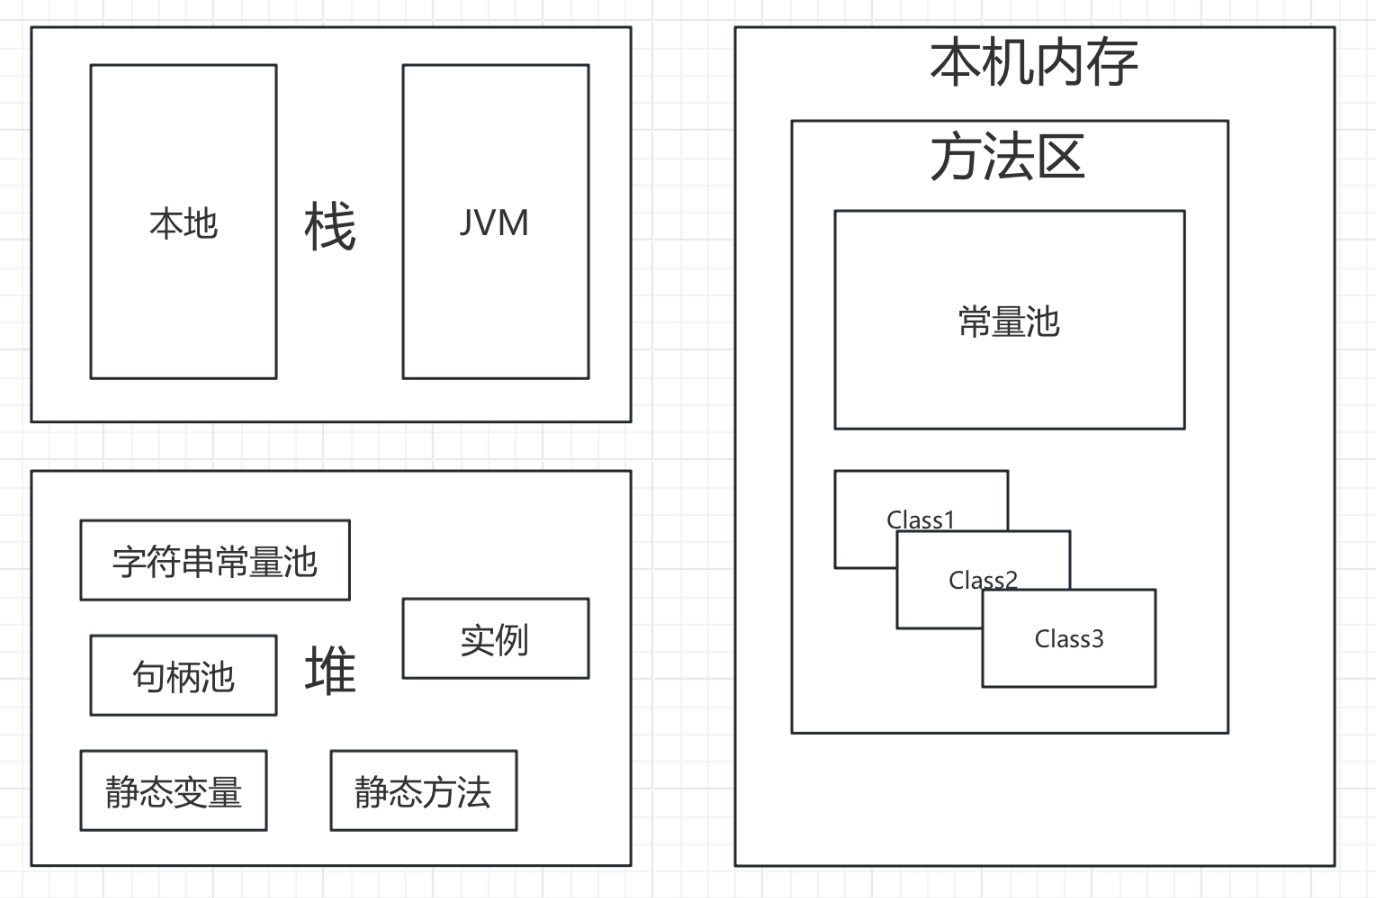
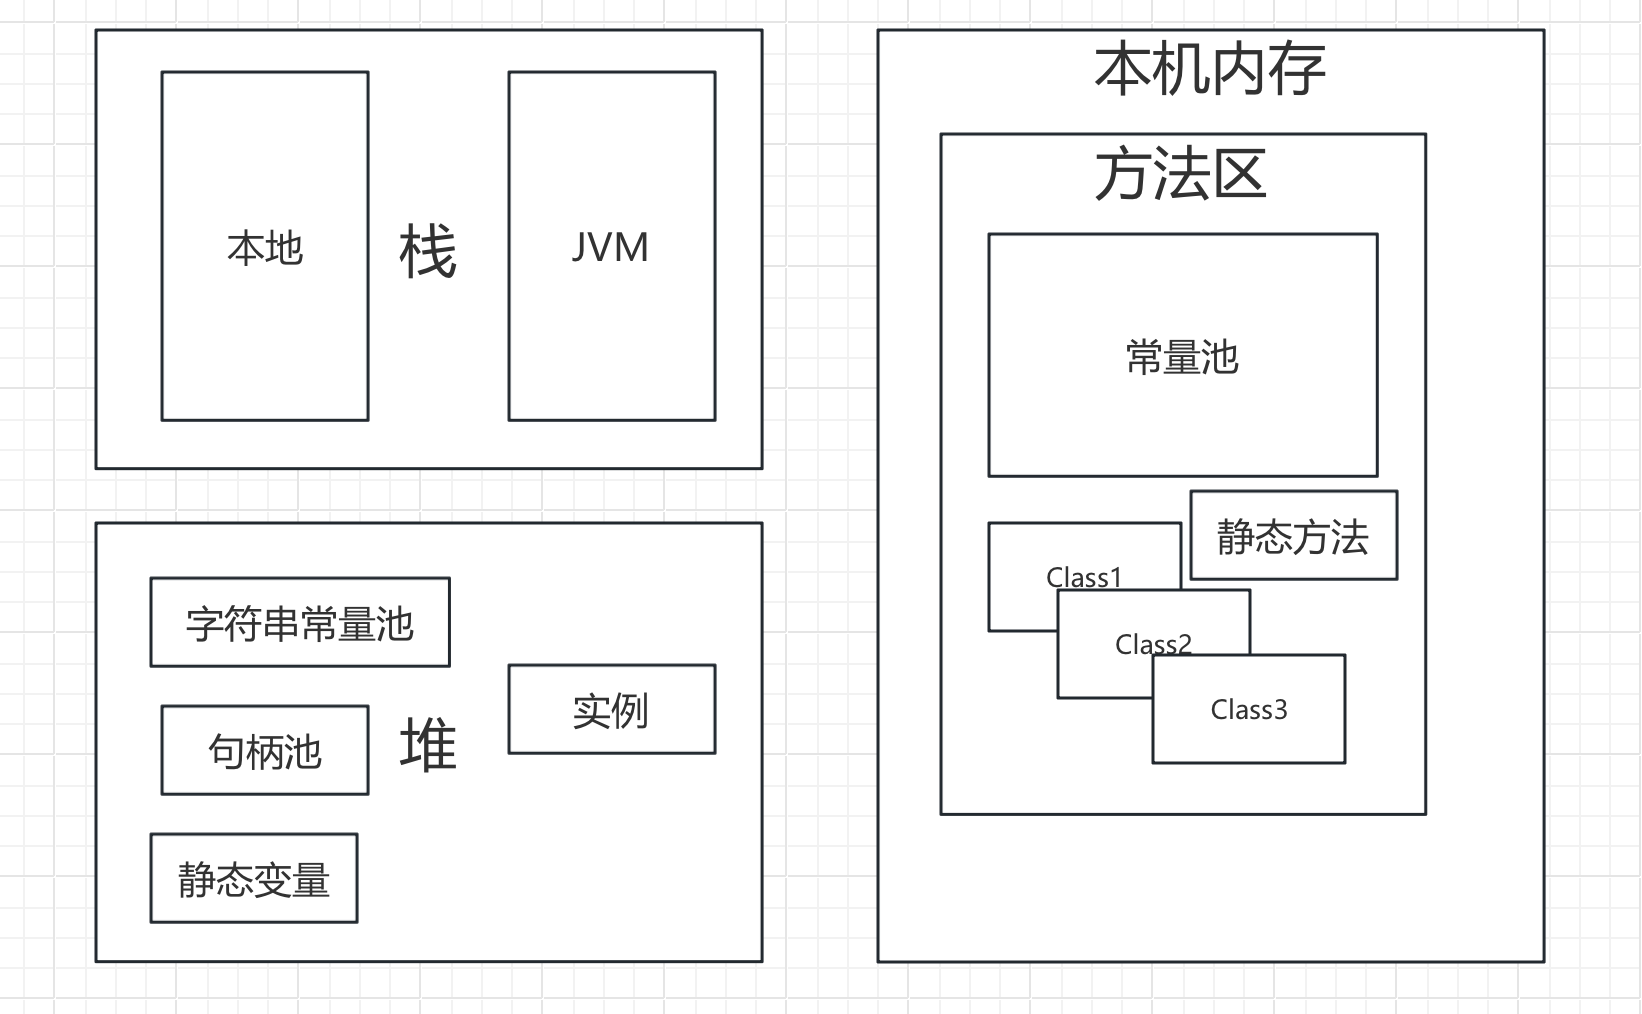
1

diff --git a/_posts/2024-10-03-记录Fuzzing时使用的工具.md b/_posts/2024-10-03-记录Fuzzing时使用的工具.md
@@ -1,0 +1,156 @@
+---
+layout: mypost
+title: "记录Fuzzing时使用的工具"
+categories: [web安全]
+---
+
+> 广义上的 Fuzzing 并不是漏洞挖掘中的专属内容，而是 DevSecOps 和 Continous Integration 质量保证中必不可少的一环，甚至可以延伸到完备图灵自动机的美妙梦想。在起初，人们通常以 monkey testing 来指代最原始的 fuzz，就像著名的无限猴子定理一样：让一只猴子在打字机上随机地按键，当按键时间达到无穷时，几乎必然能够打出任何给定的文字。 ---摘自 Flanker
+
+安全中很多地方都用到了这项技术，Web、Pwn、AI 等等很多领域，很多安全研究员都通过此技术拿到过不少的 CVE。这里记录一下最基础的 Web 领域，说白了就是批量发数据包，观测响应的状态的一个流程，所以要完美实现这个流程只需要考虑两点：
+
+1. 高质量的字典
+
+2. 工具的速度和稳定性
+
+工具推荐两个，一个是 ffuf - Fuzz Faster U Fool，另一个是 Burp 的插件 Turbo Intruder。字典一定要分类，把类别整理出来，那么每一类肯定就是高质量的字典，比如有 Sql、Xss、Spring、Shiro、绕 403 等等这样类别。
+
+## ffuf - Fuzz Faster U Fool
+
+ffuf 有很多优点，基于 Go 语言开发，速度极快，并且跨平台，支持颜色区分等等。最重要的是它可操作性比较强，功能可以涵盖目录扫描、DNS 扫描、Payload 测试等等，我们只需要改变 FUZZ 参数的位置+高质量的字典即可。所以用好这一款工具就可以代替比如像 Dirsearch、御剑这种功能比较单一的工具。下面先去写基础使用介绍，然后再写工具在不同场景中的具体应用。
+
+### Input Options
+
+输入选项，顾名思义就是要把 Dicts 的每一项加入到 Payload 中进行测试，有下面几种方式：
+
+1.单一 Word Fuzz，也是最简单的 Fuzz
+
+```
+./ffuf -u http://testphp.vulnweb.comFUZZ -w ../../字典/fuzzDicts/directoryDicts/top7000.txt
+```
+
+![](image.png)
+
+2.多 Word Fuzz，不止在一个位置上 Fuzz，灵活应用这个功能会有意想不到的效果
+
+```
+./ffuf -u http://testphp.vulnweb.comFUZZ1\?FUZZ2 -w ../../字典/fuzzDicts/apiDict/api.txt:FUZZ1 -w ../../字典/fuzzDicts/paramDict/dir.txt:FUZZ2
+```
+
+3.加 Cookie 扫描，手动去获取登录后网站的 Cookie 字段，然后使用`-b`参数添加字段即可
+
+```
+./ffuf -u http://testphp.vulnweb.comFUZZ -w ../../字典/fuzzDicts/directoryDicts/top7000.txt -b "Cookie=xxx"
+```
+
+4.递归扫描，这个扫描的时候字典新版本可以`/`开头，不会扫描失效（可能有的旧版本这里会报错），扫描的时候加这个参数-->`-recursion`
+
+```
+./ffuf -u http://testphp.vulnweb.comFUZZ -w ../../字典/fuzzDicts/directoryDicts/top7000.txt -recursion
+```
+
+效果就是如果扫描到目录返回是 200，那么就会把目前字典再加载到该目录下重新再次发包，可以看到下面的`Job [3/4]`
+
+![alt text](image-1.png)
+
+5.POST 扫描，这里只推荐用数据包去扫描，将数据包内容通过 Burp 等工具拦截，再想去 Fuzz 的地方添加好标志位，然后使用如下语句开始进行 Fuzz
+
+![alt text](<截屏2024-10-12 22.17.58.png>)
+
+```
+ffuf -request request.txt -request-proto http -mode clusterbomb -w ../../字典/fuzzDicts/directoryDicts/top7000.txt -recursion
+```
+
+分析一下其中的参数:
+
+`-mode` 爆破模块，目前有 clusterbomb、 pitchfork 两个模式具体，类似 burpsuite 的爆破模块
+
+- 在 clusterbomb 模式下，用户名单词列表中的每个单词都将与密码单词列表中的每个单词组合使用。就像如果列表 1 中有 4 个单词而列表 2 中有 5 个单词，那么总共会有 20 个请求。（集束炸弹模式）
+- 在 pitchfork 模式下，用户名列表中第一个单词将与密码列表中第一个单词一起使用，同样，用户名列表中第二个单词将与密码列表中第二个单词一起使用。如果两个列表中的单词数量不同，那么一旦单词数量较少的列表耗尽就会停止。
+
+`-request` 用于指定与原始 HTTP 请求文件
+
+`-request-proto` 与原始请求一起使用的协议（默认值：https）
+
+6.静默扫描&指定后缀扫描，这两个都没什么就一笔带过了，静默扫描就是不会显示过程只会显示最后的结果，参数是`-s`,指定后缀扫描意思就是在字典的每一个字段里面去加上所指示的后缀再去重发包，参数是`-e .php,.zip`。
+
+### Match Options & Filter Options
+
+Match Options 是对返回结果做匹配，快速筛选出我们输入的结果，而 Filter Options 刚好相反，是去过滤掉我们输入的结果。两者很类似，所以放一块了。
+
+1.匹配状态码 & 过滤状态码
+
+```
+./ffuf -u http://testphp.vulnweb.comFUZZ -w ../../字典/fuzzDicts/directoryDicts/top7000.txt -mc 200,403
+```
+
+过滤状态码将`-mc`变成`-fc`
+
+2.匹配响应包行数 & 过滤响应包行数
+
+```
+./ffuf -u http://testphp.vulnweb.comFUZZ -w ../../字典/fuzzDicts/directoryDicts/top7000.txt -ml 10
+```
+
+过滤响应包行数将`-ml`变成`-fl`
+
+3.匹配大小 & 过滤大小
+
+```
+./ffuf -u http://testphp.vulnweb.comFUZZ -w ../../字典/fuzzDicts/directoryDicts/top7000.txt -ms 177
+```
+
+过滤大小将`-ms`变成`-fs`
+
+4.匹配正则 & 过滤正则
+
+```
+./ffuf -u http://testphp.vulnweb.comFUZZ -w ../../字典/fuzzDicts/directoryDicts/top7000.txt -mr "^\d{5,12}$"
+```
+
+过滤正则将`-mr`变成`-fr`
+
+### General Options
+
+这一块就是比较杂的一些小参数，让更好的调配 Fuzz 的效果，很容易理解不做过多解释
+
+1. 颜色输出`-c`
+
+2. 设置线程`-t 50`
+
+3. 任务最大时间`-maxtime 180`
+
+4. 跟随重定`-r`
+
+5. 请求延时`-p 0.5`
+
+6. 测试详情`-v`
+
+7. 代理`-x http://127.0.0.1:7897`
+
+### Output Options
+
+这里一般就用Html去输出，很直观，参数是`-of html`
+
+### Application Scenarios
+
+下面来看看它有哪些使用场景
+
+1.如果我们想对子域进行模糊处理，我们可以在命令中使用[-H]参数和子域名字典
+
+```
+./ffuf -u http://google.com -w /Users/Oyst3r/Penetration/字典/SecLists/Discovery/DNS/subdomains-top1million-5000.txt -H "HOST: FUZZ.google.com"
+```
+
+2.随机User-Agent，现在这个应该不是问题，发一个POST包即可，参数在上面也给出过了
+
+3.Fuzz参数，假设发送无效参数返回的响应大小为4242字节，Like this -->
+
+```
+./ffuf -w ../../字典/fuzzDicts/paramDict/dir.txt -u https://target/script.php?FUZZ=test_value -fs 4242
+```
+
+4.等等等
+
+## Turbo Intruder
+
+这个是被Burp官方收录的插件，官方使用指南在这里-->[](https://portswigger.net/research/turbo-intruder-embracing-the-billion-request-attack)

diff --git a/_posts/2024-06-01-浅谈Java内存分配机制.md b/_posts/2024-06-01-浅谈Java内存分配机制.md
@@ -56,7 +56,7 @@ new 一个对象会在堆去分配内存，这个是众所周之的，但是在 
 
 这里不去细说 Young Generation 和 Old Generation 了，实例创建好默认就在这两个区域，然后直接看这个永久代（之前的实现方法区的办法），永久代里面包含了类信息、字段信息、方法、常量、静态变量、即时编译器编译后的代码缓存等数据。但是 JDK7 开始字符串字面量和类的静态变量首先被从永久代被移出到 Java 堆中，目的是为了避免因为字符串字面量大量存储到字符串常量池中而导致的永久代内存溢出。然后 JDK8 中，JVM 彻底移除了永久代，同时引入元空间(Metaspace)来管理原来的元数据，这些元数据被分配到本地内存中进行管理。元空间默认上限是本地内存大小，所以降低了元空间 OOM 的可能性。而元空间是在主机内存中，至此元空间成为了实现方法区的办法。
 
-上面一直写的是：实现方法区的办法，所以说方法区只是一个抽象的概念，怎么去构建这样一个方法区还是得看永久代（之前的办法）或者元空间（如今的办法）。但是静态变量、静态方法永久的留在了堆中！
+上面一直写的是：实现方法区的办法，所以说方法区只是一个抽象的概念，怎么去构建这样一个方法区还是得看永久代（之前的办法）或者元空间（如今的办法）。但是静态变量永久的留在了堆中！
 
 如果还是对静态变量永久的留在了堆中这点不理解，推荐去看一下这个 Q&R-->[Stack overflow 上的答案](https://stackoverflow.com/questions/8387989/where-are-static-methods-and-static-variables-stored-in-java)
 
@@ -156,5 +156,7 @@ public class Dog {
 4. 给属性赋值，相关 static 变量以及字符串变量在内存中的具体位置图片也给出了，然后就是调用方法了，方法不管是 static 还是非 static 都是在方法区中的，堆中是保留了指向这个方法区中方法的指针。
 
 5. 有传参的方法和 C 语言一个逻辑......接着就是 POP 栈，Clear 堆......
+
+6. 上图中红字部分如果有不懂的，可以去看一下这篇文章 [再深一步了解Java类的内存细节](https://www.cnblogs.com/wsw-bk/p/7841560.html)，不对应该是这个系列的文章（里面去详细讲述类的每一部分的加载先后顺序和在内存中的样子），因为里面涉及到Java的三大特性等等具体的细节，这里只是浅谈，不做过于深入的解释。
 
 📝 记录一下吧，以上均是参考 JDK7、JDK 8 文档和前辈的文章，不同的 JVM 在加载 class 的处理方式都是不一样的，也曾做过几个实验，在调试过程中去监视动态变化的内存分配情况，但实验结果是不稳定的，没有参考价值，其实很简单就是 IDEA+jvisualvm 动态调试，通过修改不同的代码去对比内存中的变化，可参考[IDEA 如何配置 jvisualvm](https://zhuanlan.zhihu.com/p/364642730)这篇文章。还是理性看待 Java 的内存分配机制即可，无特殊需求不要钻牛角尖......
